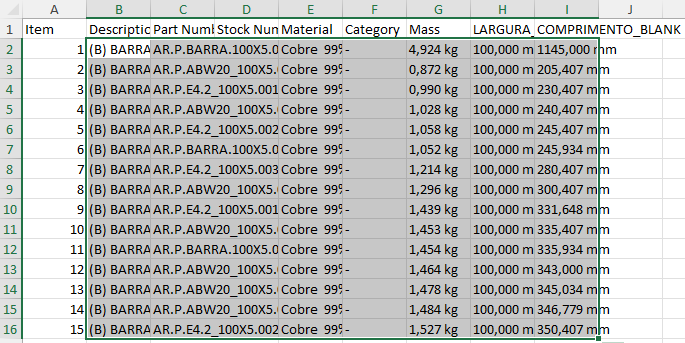
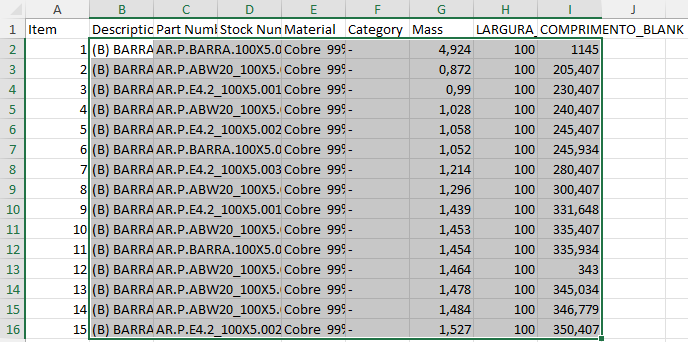
🔃Atualização: Conteúdo para elaboração do perfil produtivo

Changed region(s): [[0.0, 0.0, 1.0, 1.0], [0.6131, 0.0, 0.6438, 0.0292], [0.4292, 0.0, 0.4599, 0.0292]]

diff --git a/docs/1. Projeto mecânico/Procedimentos/Perfil produtivo.md b/docs/1. Projeto mecânico/Procedimentos/Perfil produtivo.md
@@ -1,7 +1,23 @@
 # Perfil produtivo
-## Criar montagem por família
+## 1. Criar a planilha de perfil produtivo
+- Entre em [Perfil produtivo]({{ links.drive_pasta_perfil_produtivo }}) ({{ links.drive_pasta_perfil_produtivo }})
+- Clique com o botão direito sobre o arquivo _PP - Template_.
+- Clique em _Fazer uma cópia_.
+
+{{ imagens.drive_fazer_uma_copia }}
+
+- Clique com o botão direito sobre o arquivo criado "_Cópia de PP - Template_".
+- Clique em _Renomear_ ou utilize o atalho _CTRL + Alt + E_.
+
+{{ imagens.drive_renomear }}
+
+- Renomeie o arquivo como `PP - Nome do Produto`.
+
+{{ imagens.drive_exemplo_perfil_produtivo }}
+
+## 2. Criar montagem por família
 - Crie uma montagem para cada família de peça.
-- Salve a montagem na pasta da família na pasta de peças com o nome da família seguido de `_`.
+- Salve a montagem na pasta de peças da família com o nome da família seguido de `_`.
 
 {{ imagens.inventor_montagem_perfil_produtivo}}
 
@@ -9,7 +25,7 @@
 
 {{ imagens.inventor_arquivos_montagem_perfil_produtivo }}
 
-## Criar montagem geral
+## 3. Criar montagem geral
 - Crie uma montagem na pasta _Submontagem_.
 - Nomeie a montagem como _"TODAS AS PEÇAS"_.
 
@@ -17,7 +33,7 @@
 
 - Insira todas as submontagens das famílias criadas na seção [Criar montagem por família](#criar-montagem-por-família).
 
-## Gerar o checklist de peças (BOM_P)
+## 4. Gerar o checklist de peças (BOM_P)
 - Na submontagem geral, na aba _Assemble_, na seção _Manage_ clique em _Bill of materials_.
 
 {{ imagens.inventor_Assemble_bill_of_materials }}
@@ -26,11 +42,11 @@
 
 {{ imagens.inventor_bill_of_materials_bill_of_materials }}
 
-- Selecione o arquivo _{{ inventor.nome_conf_descricao }}_ em _{{ inventor.caminho_conf_descricao }}_.
+- Selecione o arquivo _{{ inventor.nome_conf_descricao }}_ em _{{ inventor.caminho_conf }}_.
 
 {{ imagens.inventor_bill_of_materials_conf_descricao }}
 
-- CLique em Sort Itens.
+- Clique em Sort Itens.
 
 {{ imagens.inventor_bill_of_materials_sort_itens }}
 
@@ -39,16 +55,110 @@
 
 {{ imagens.inventor_sort_itens_sort }}
 
-- Clique em _Export Bill of Materials.
+- Clique em _Export Bill of Materials_.
 
 {{ imagens.inventor_export_bill_of_materials }}
 
 - Selecione o caminho onde o arquivo será salvo.
 
-## Cadastro de peças
+## 5. Cadastro de peças
 - Abra o arquivo _BOM_P_ criado na seção [Gerar o checklist de peças (BOM_P)](#gerar-o-checklist-de-peças-bom_p).
+
+- Na seção _Edição_ clique em _Localizar e selecionar_ e selecione a opção _Susbtituir_ ou utilize o atalho _CTRL + U_.
+
+{{ imagens.excel_edicao_localizar_e_substituir }}
+
+- Em _Localizar_ digite `"espaço" mm` e deixe o campo _Substituir por_ em branco.
+- Clique em _Substituir tudo_.
+- Em _Localizar_ digite `"espaço" kg` e deixe o campo _Substituir por_ em branco.
+- Clique em _Substituir tudo_.
+
+{{ imagens.excel_localizar_e_selecionar_substituir }}
+
 - Selecione toda a tabela sem o cabeçalho e sem a coluna "**_Item_**"
 
 {{ imagens.excel_colunas_perfil_produtivo }}
 
-- Copie os itens e cole na tabela de perfil produtivo
+- Copie os itens selecionados
+- Cole na tabela de perfil produtivo na guia _Peças_ da planilha gerada na etapa [1. Criar planilha de perfil produtivo](#1-criar-a-planilha-de-perfil-produtivo).
+
+{{ imagens.sheets_perfil_produtivo_exemplo_tabela_peças}}
+
+## 6. Cadastro de submontagens
+- Abra o arquivo de submontagem no _Autodesk Inventor_. 
+- Na aba _Assemble_, na seção _Manage_ clique em _Bill of materials_.
+
+{{ imagens.inventor_Assemble_bill_of_materials }}
+
+- Na janela _Bill of materials_ clique em _Import_.
+
+{{ imagens.inventor_bill_of_materials_bill_of_materials }}
+
+- Selecione o arquivo _{{ inventor.nome_conf_quant }}_ em _{{ inventor.caminho_conf }}_.
+
+{{ imagens.inventor_bill_of_materials_conf_quant }}
+
+- Clique em Sort Itens.
+
+{{ imagens.inventor_bill_of_materials_sort_itens }}
+
+- Em _Sort by_ selecione a opção _Description_.
+- Em _Then by_ selecione a opção _Part Number_.
+
+{{ imagens.inventor_sort_itens_sort }}
+
+- Copie os valores sem a coluna **_Item_**.
+
+{{ imagens.inventor_bill_of_materials_colunas_submontagem }}
+
+- Cole na tabela de perfil produtivo na guia _Kits_, na coluna _Composição_ da planilha gerada na etapa [1. Criar planilha de perfil produtivo](#1-criar-a-planilha-de-perfil-produtivo).
+
+{{ imagens.sheets_perfil_produtivo_exemplo_tabela_kits_submontagem }}
+
+- Na coluna _Submontagem_ insira o nome da submontagem que está sendo cadastrada.
+
+{{ imagens.sheets_perfil_produtivo_exemplo_tabela_kits_submontagem_nome }}
+
+- Na coluna _Família_ insira o nome da família que está sendo cadastrada.
+
+{{ imagens.sheets_perfil_produtivo_exemplo_tabela_kits_submontagem_familia }}
+
+## 7. Cadastro de montagens
+- Abra o arquivo de montagem no _Autodesk Inventor_. 
+- Na aba _Assemble_, na seção _Manage_ clique em _Bill of materials_.
+
+{{ imagens.inventor_Assemble_bill_of_materials }}
+
+- Na janela _Bill of materials_ na guia _Structure_, clique em _Import_.
+
+{{ imagens.inventor_bill_of_materials_structure }}
+
+- Selecione o arquivo _{{ inventor.nome_conf_quant }}_ em _{{ inventor.caminho_conf }}_.
+
+{{ imagens.inventor_bill_of_materials_conf_quant }}
+
+- Clique em Sort Itens.
+
+{{ imagens.inventor_bill_of_materials_sort_itens }}
+
+- Em _Sort by_ selecione a opção _Description_.
+- Em _Then by_ selecione a opção _Part Number_.
+
+{{ imagens.inventor_sort_itens_sort }}
+
+- Copie os valores sem a coluna **_Item_**.
+
+>[!warning] Atenção
+> Não selecione as linhas com elementos de máquinas e itens de biblioteca.
+
+{{ imagens.inventor_bill_of_materials_structure_colunas }}
+
+- Cole na tabela de perfil produtivo na guia _Kits_, na coluna _Composição_ da planilha gerada na etapa [1. Criar planilha de perfil produtivo](#1-criar-a-planilha-de-perfil-produtivo).
+
+- Na coluna _Submontagem_ insira o nome da submontagem que está sendo cadastrada.
+
+{{ imagens.sheets_perfil_produtivo_exemplo_tabela_kits_submontagem_nome }}
+
+- Na coluna _Família_ insira o nome da família que está sendo cadastrada.
+
+{{ imagens.sheets_perfil_produtivo_exemplo_tabela_kits_submontagem_familia }}
